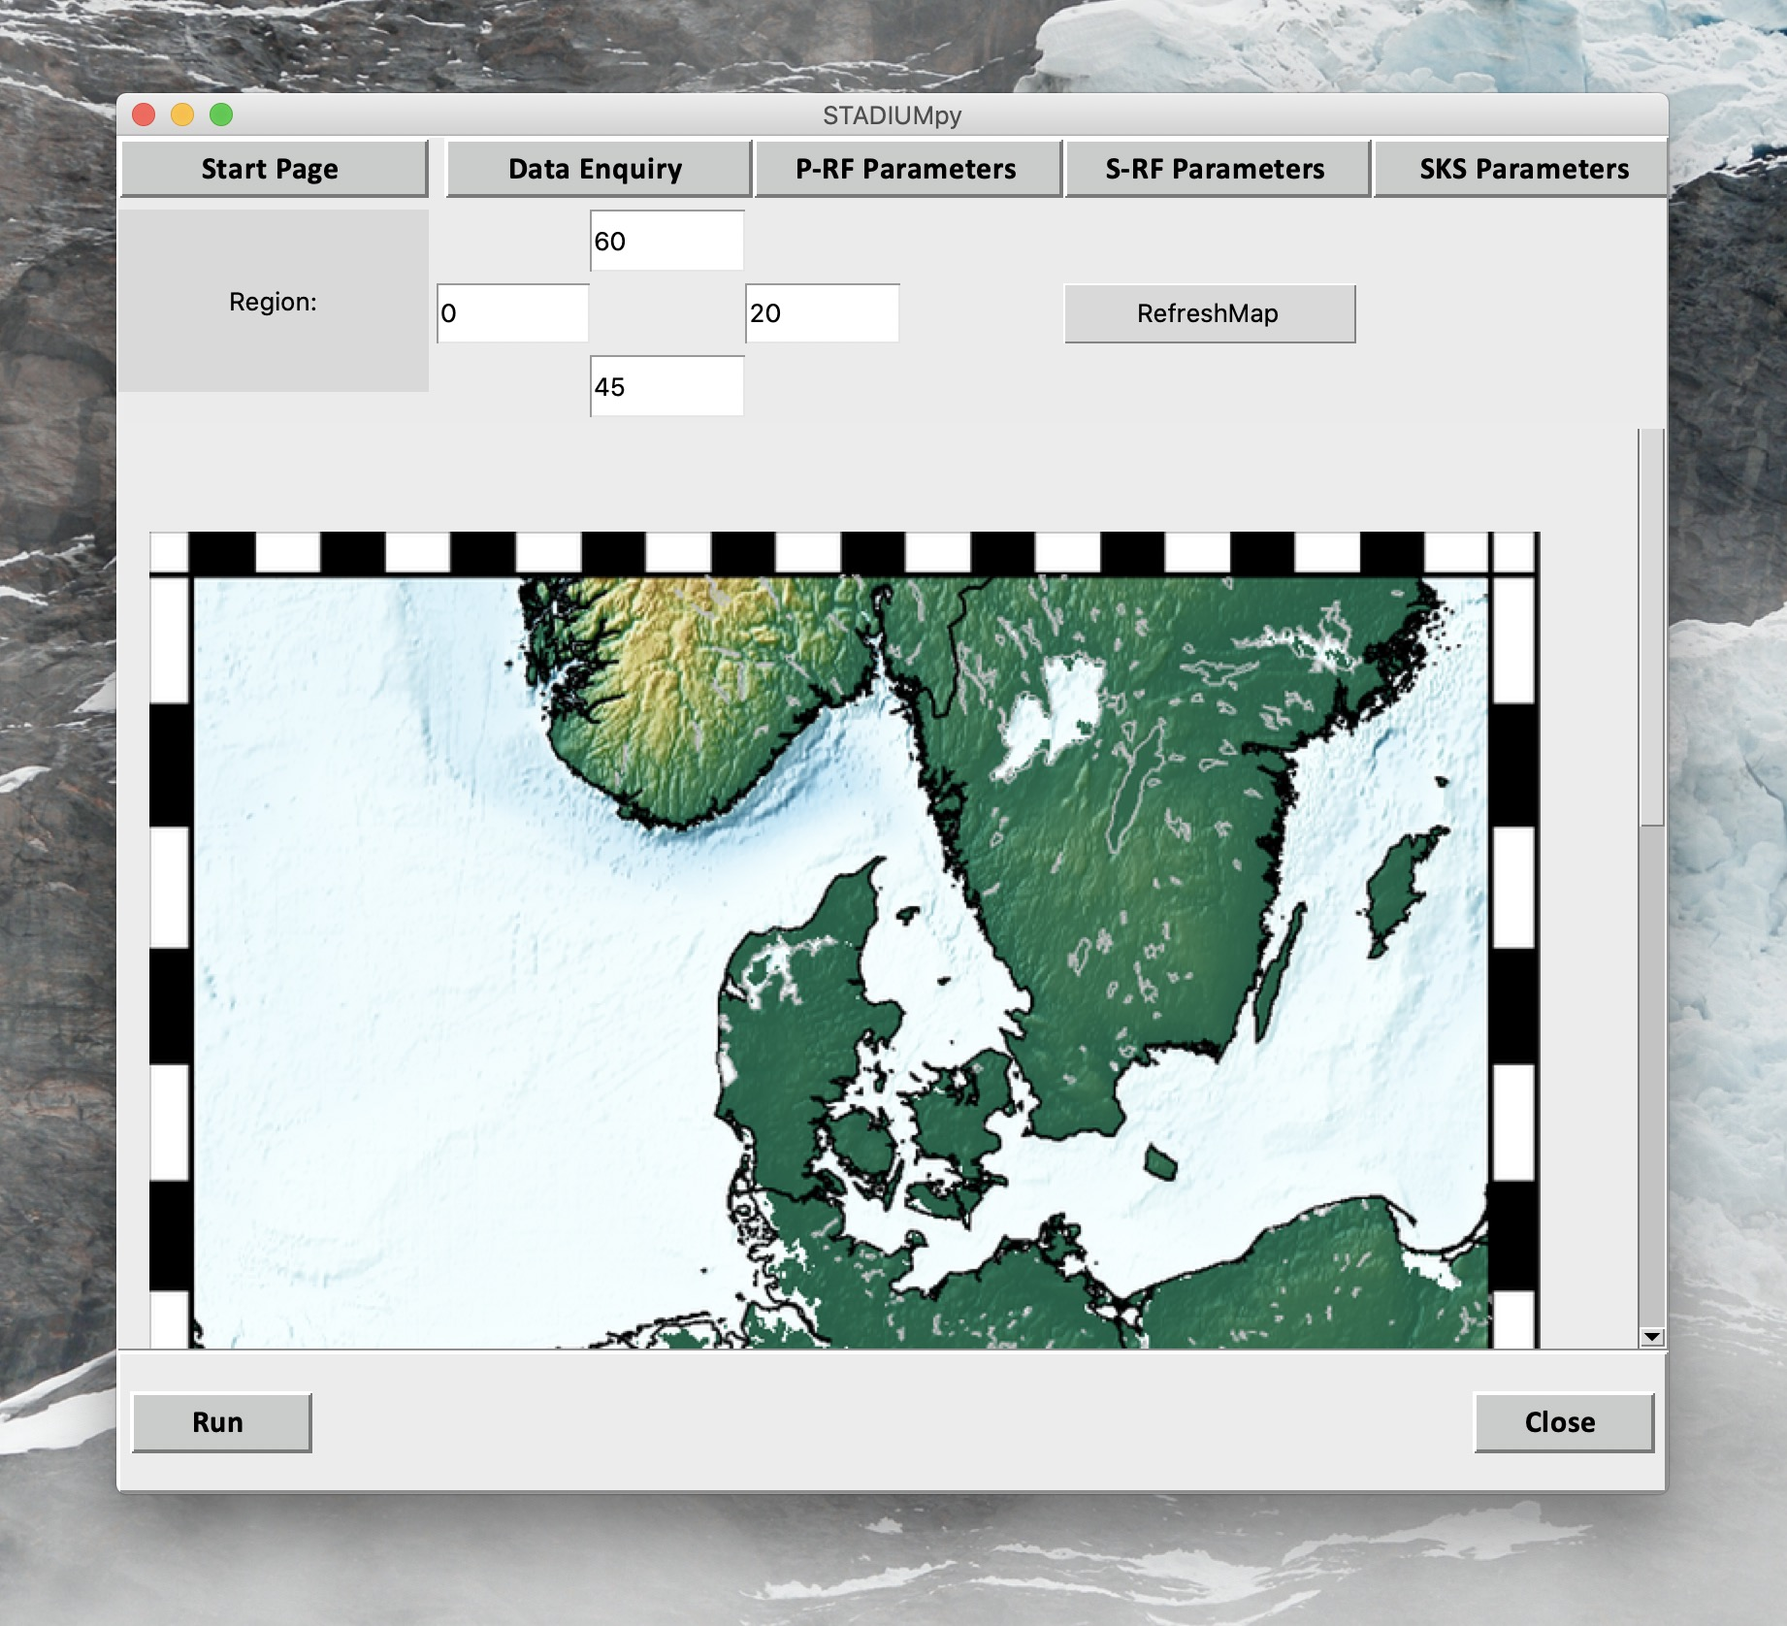
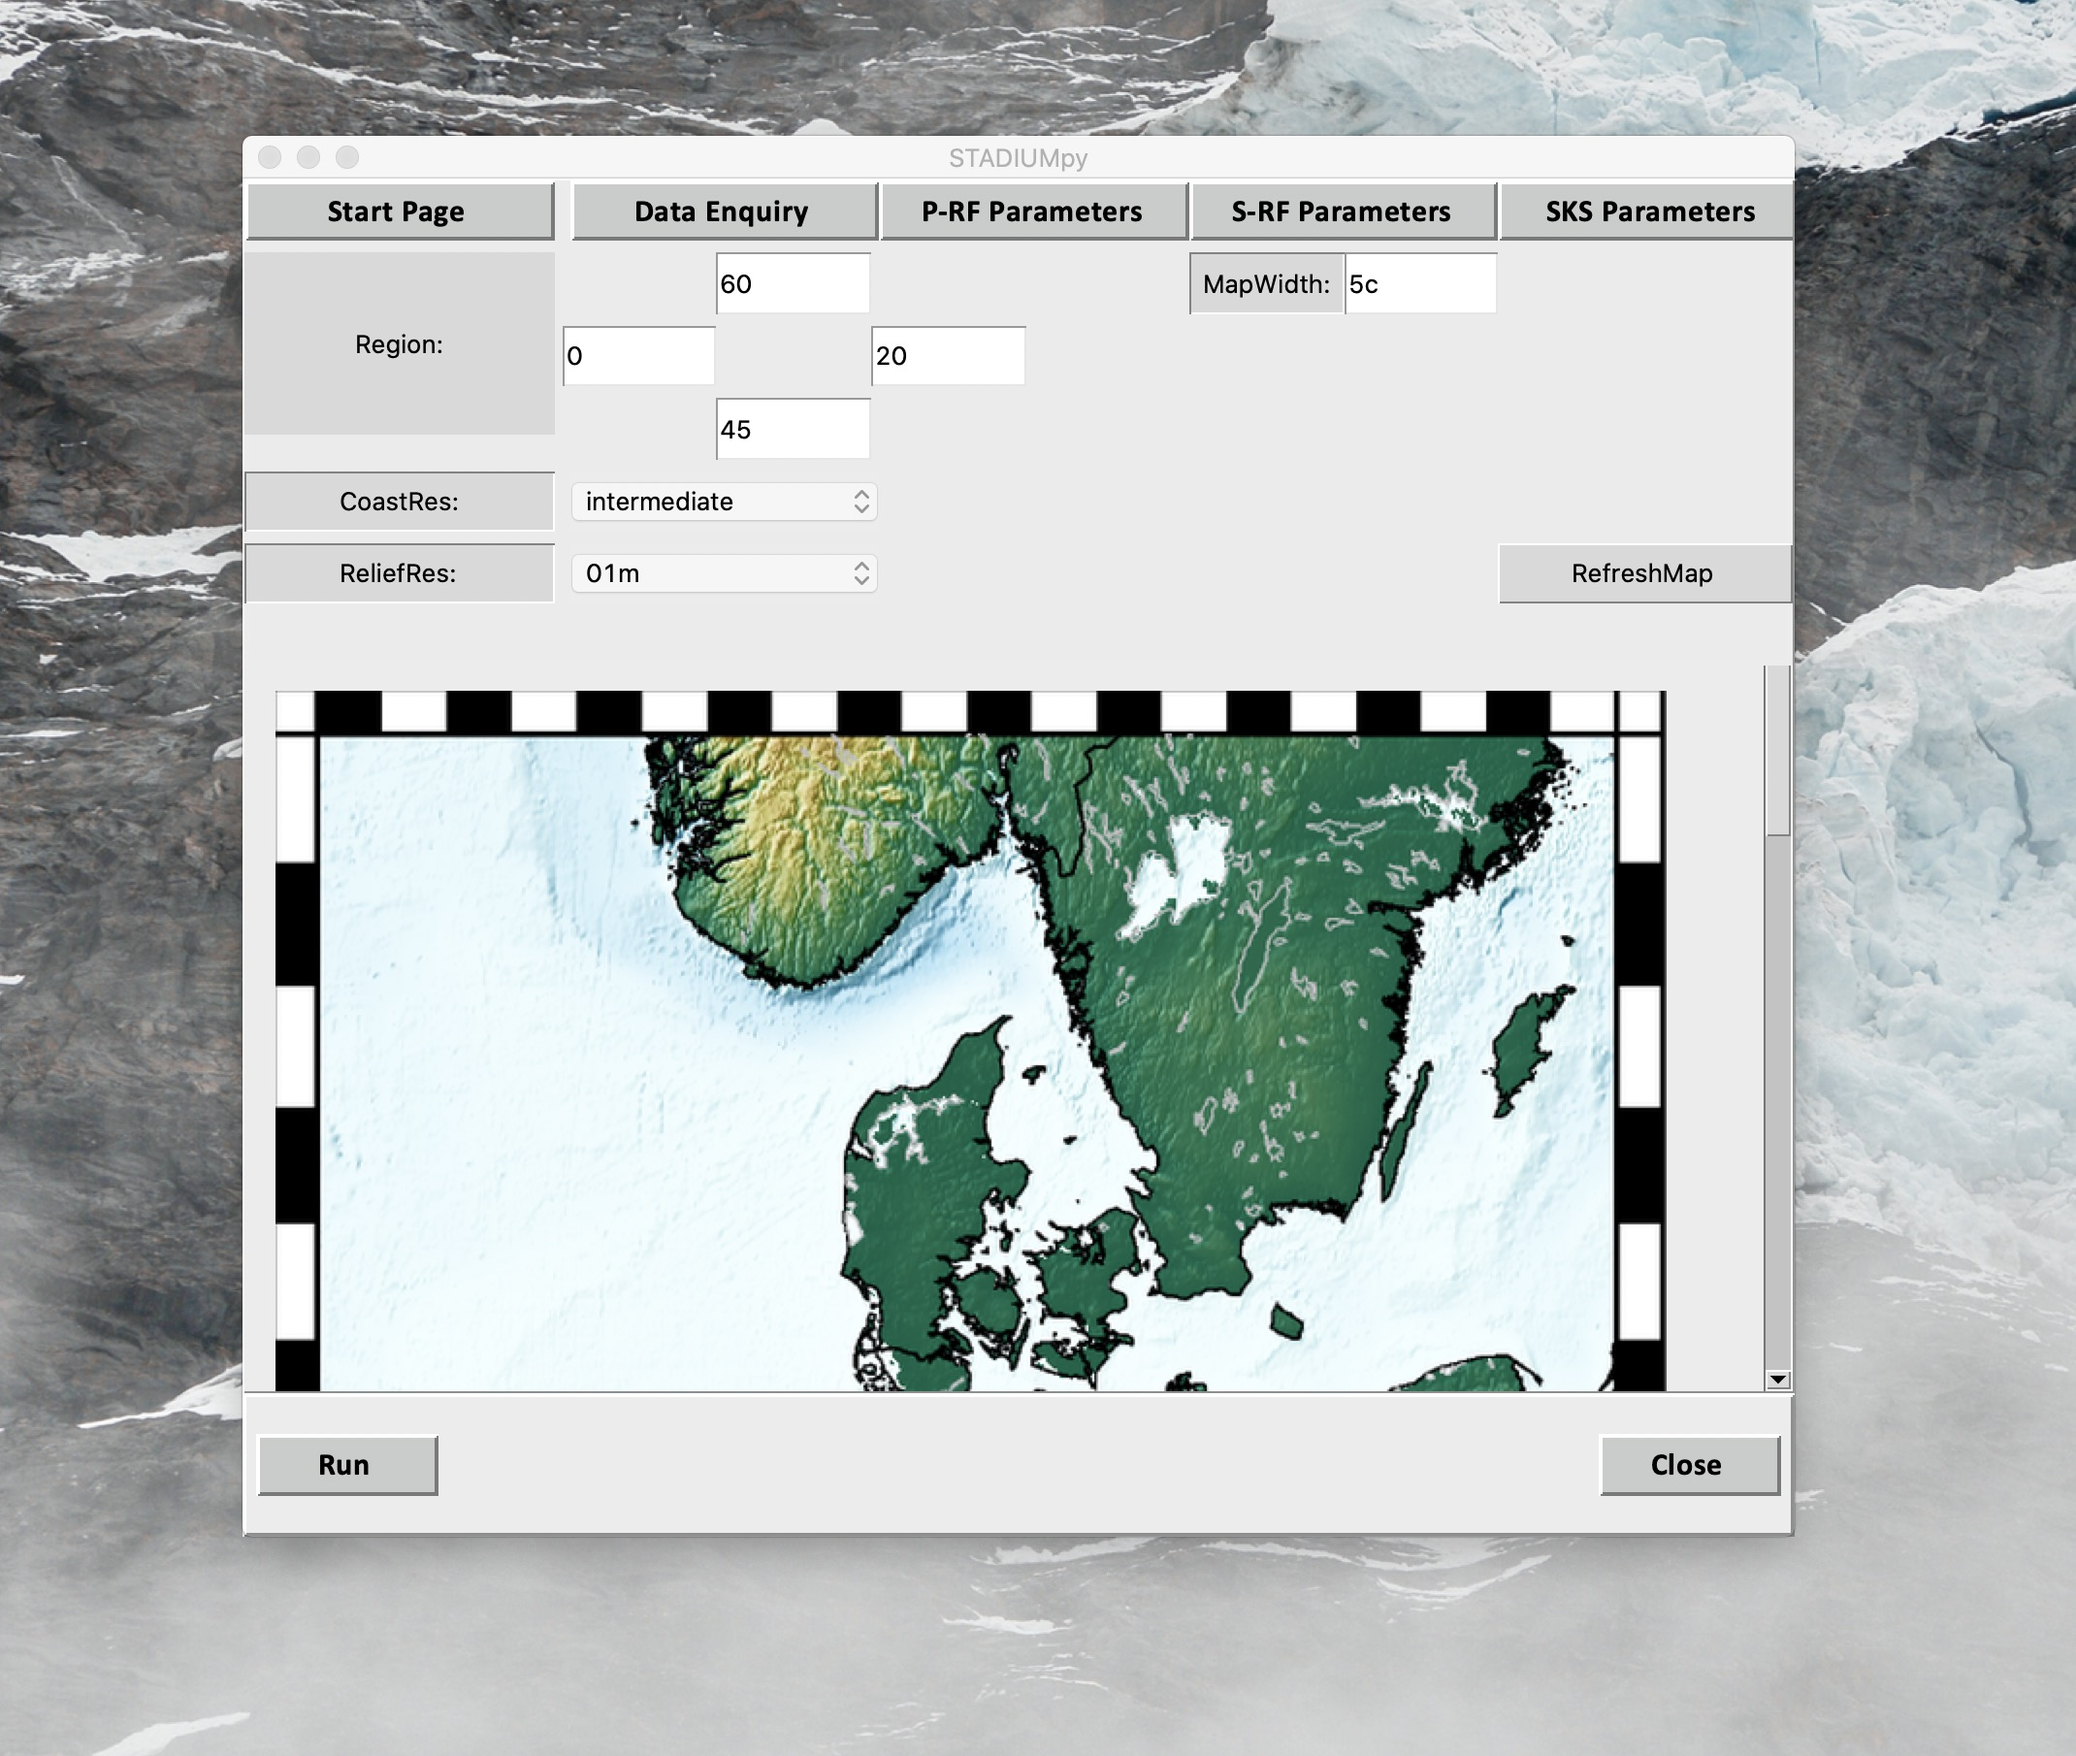
plotmap added features

diff --git a/plot_map_gui.py b/plot_map_gui.py
@@ -2,7 +2,7 @@ import numpy as np
 import tkinter as tk
 from tkinter import ttk
 # from tkinter import *
-from tkinter import Tk, RIGHT, BOTH, RAISED, X, LEFT, W, E, NW, N, S, SUNKEN, Y, VERTICAL
+from tkinter import Tk, RIGHT, BOTH, RAISED, X, LEFT, W, E, NW, N, S, SUNKEN, Y, VERTICAL, RIDGE, GROOVE
 
 from plot_geomap import plot_map
 from PIL import ImageTk, Image
@@ -76,7 +76,7 @@ def plotMap(self, controller, StartPage, PageDataEnquiry, PagePRF, PageSRF, Page
 
     topcanvas = tk.Canvas(self)
     topcanvas.config(bg='#ecebec')
-    topcanvas.place(relx=RELXS[0], rely=RELY, relwidth = 5*RELWIDTH, relheight=4.8*RELHEIGHT )
+    topcanvas.place(relx=RELXS[0], rely=RELY, relwidth = 5*RELWIDTH, relheight=8*RELHEIGHT )
 
     ## Startpage page
     PageDataEnquiry_stpg_button = ttk.Button(self, text="Start Page",style = 'W.TButton',
@@ -126,6 +126,7 @@ def plotMap(self, controller, StartPage, PageDataEnquiry, PagePRF, PageSRF, Page
     
 
     RELY += 0.01
+    RELYmapwidth = RELY
     lbl1.place(relx=RELXS[0], rely=RELY, relheight=RELHEIGHT*3, relwidth=RELWIDTH)
 
     geoMaxLatEntry = ttk.Entry(self, width=10)
@@ -143,17 +144,55 @@ def plotMap(self, controller, StartPage, PageDataEnquiry, PagePRF, PageSRF, Page
 
     geoMinLonEntry.insert(0,str(minlon))
     geoMaxLonEntry.insert(0,str(maxlon))
-    plotmapRELY = RELY
+    
 
     ##
     RELY += RELHEIGHT+0.01
     geoMinLatEntry = ttk.Entry(self, width=10)
     geoMinLatEntry.insert(0,str(minlat))
     geoMinLatEntry.place(relx=RELXS[3]/2, rely=RELY, relheight=RELHEIGHT, relwidth=RELWIDTH/2)
+
+    ## dropdown menu for res
+    resSel = tk.StringVar()
+    resSel.set("intermediate")
+    res_drop = tk.OptionMenu(self,resSel, "full", "high", "intermediate", "low", "crude")
+
+    RELY += RELHEIGHT+0.01
+    reslabel = ttk.Label(self, text="CoastRes:", relief=RIDGE)
+    reslabel.configure(anchor="center")
+    reslabel.place(relx=RELXS[0], rely=RELY, relheight=RELHEIGHT, relwidth=RELWIDTH)
+    res_drop.place(relx=RELXS[1], rely=RELY, relheight=RELHEIGHT, relwidth=RELWIDTH)
     
     ##
-    res='i'
-    topo_data = '@earth_relief_01m'
+    resDict = {"full":"f", "high":"h", "intermediate": "i", "low": "l", "crude": "c"}
+    res=resDict[resSel.get()]
+
+    ## dropdown menu for topography
+    RELY += RELHEIGHT+0.01
+    topoSel = tk.StringVar()
+    topoOptions = ['01d', '30m', '20m', '15m', '10m', '06m', '05m', '04m', '03m', '02m', '01m', '30s', '15s']
+    topoSel.set(topoOptions[10])
+    topo_drop = tk.OptionMenu(self,topoSel, *topoOptions)
+
+    topolabel = ttk.Label(self, text="ReliefRes:", relief=RIDGE)
+    topolabel.configure(anchor="center")
+    topolabel.place(relx=RELXS[0], rely=RELY, relheight=RELHEIGHT, relwidth=RELWIDTH)
+    topo_drop.place(relx=RELXS[1], rely=RELY, relheight=RELHEIGHT, relwidth=RELWIDTH)
+    
+    ##
+    topo_data="@earth_relief_" + topoSel.get()
+
+    plotmapRELY = RELY
+
+
+    mapwidthLabel = ttk.Label(self, text="MapWidth:", relief=RIDGE)
+    mapwidthLabel.configure(anchor="center")
+    mapwidthLabel.place(relx=RELXS[3], rely=RELYmapwidth, relheight=RELHEIGHT, relwidth=RELWIDTH/2)
+    mapWidth = ttk.Entry(self, width=10)
+    mapWidth.insert(0,"5c")
+    mapWidth.place(relx=RELXS[3]+RELWIDTH/2, rely=RELYmapwidth, relheight=RELHEIGHT, relwidth=RELWIDTH/2)
+    # res='i'
+    # topo_data = '@earth_relief_01m'
 
     # canvasRELXS = RELXS
     # canvasRELY = RELY
@@ -207,7 +246,7 @@ def plotMap(self, controller, StartPage, PageDataEnquiry, PagePRF, PageSRF, Page
             # canvas = tk.Canvas(self, width = geoMap.width(), height = geoMap.height(), relief=SUNKEN, bd=2)
             canvas.create_image(0, 0, anchor="nw", image=geoMap) 
             canvas.image = geoMap
-            canvas.grid(row=3,column=0, pady=(200,10), padx=10, sticky="nsew")
+            canvas.grid(row=3,column=0, pady=(260,10), padx=10, sticky="nsew")
             # canvas.place(relx=RELXS[0], rely=RELY, relwidth = 5*RELWIDTH )
         else:
             canvas=None
@@ -215,14 +254,17 @@ def plotMap(self, controller, StartPage, PageDataEnquiry, PagePRF, PageSRF, Page
     canvas = image_on_canvas(image_name)
 
     def refreshMap(canvas):
+        res=resDict[resSel.get()]
+        topo_data="@earth_relief_" + topoSel.get()
+        mapwidth = mapWidth.get()
         minlat = geoMinLatEntry.get()
         maxlat = geoMaxLatEntry.get()
         minlon = geoMinLonEntry.get()
         maxlon = geoMaxLonEntry.get()
-        plot_map(minlon,maxlon,minlat, maxlat,topo_data,outputfile=image_name,res=res)
+        plot_map(minlon,maxlon,minlat, maxlat,topo_data,outputfile=image_name,res=res, width=mapwidth)
         canvas.delete("all")
         canvas = image_on_canvas(image_name)
 
 
     button_plotmap = ttk.Button(self, text="RefreshMap", command=lambda: refreshMap(canvas))
-    button_plotmap.place(relx=RELXS[3], rely=plotmapRELY, relheight=RELHEIGHT, relwidth=RELWIDTH-drelx)
+    button_plotmap.place(relx=RELXS[4], rely=plotmapRELY, relheight=RELHEIGHT, relwidth=RELWIDTH-drelx)

diff --git a/plot_geomap.py b/plot_geomap.py
@@ -9,7 +9,7 @@ res='i'
 #define etopo data file
 topo_data = '@earth_relief_01m' #30 arc second global relief (SRTM15+V2.1 @ 1.0 km)
 
-def plot_map(minlon,maxlon,minlat, maxlat,topo_data,outputfile,res='i'):
+def plot_map(minlon,maxlon,minlat, maxlat,topo_data,outputfile,res='i', width="5c"):
     print(f"Plotting map for {minlon},{maxlon},{minlat},{maxlat}")
     fig = pygmt.Figure()
 
@@ -24,7 +24,7 @@ def plot_map(minlon,maxlon,minlat, maxlat,topo_data,outputfile,res='i'):
     fig.grdimage(
         grid=topo_data,
         region=[minlon, maxlon, minlat, maxlat], 
-        projection='M5c',
+        projection='M'+width,
         shading=True,
         frame="f"
         )
